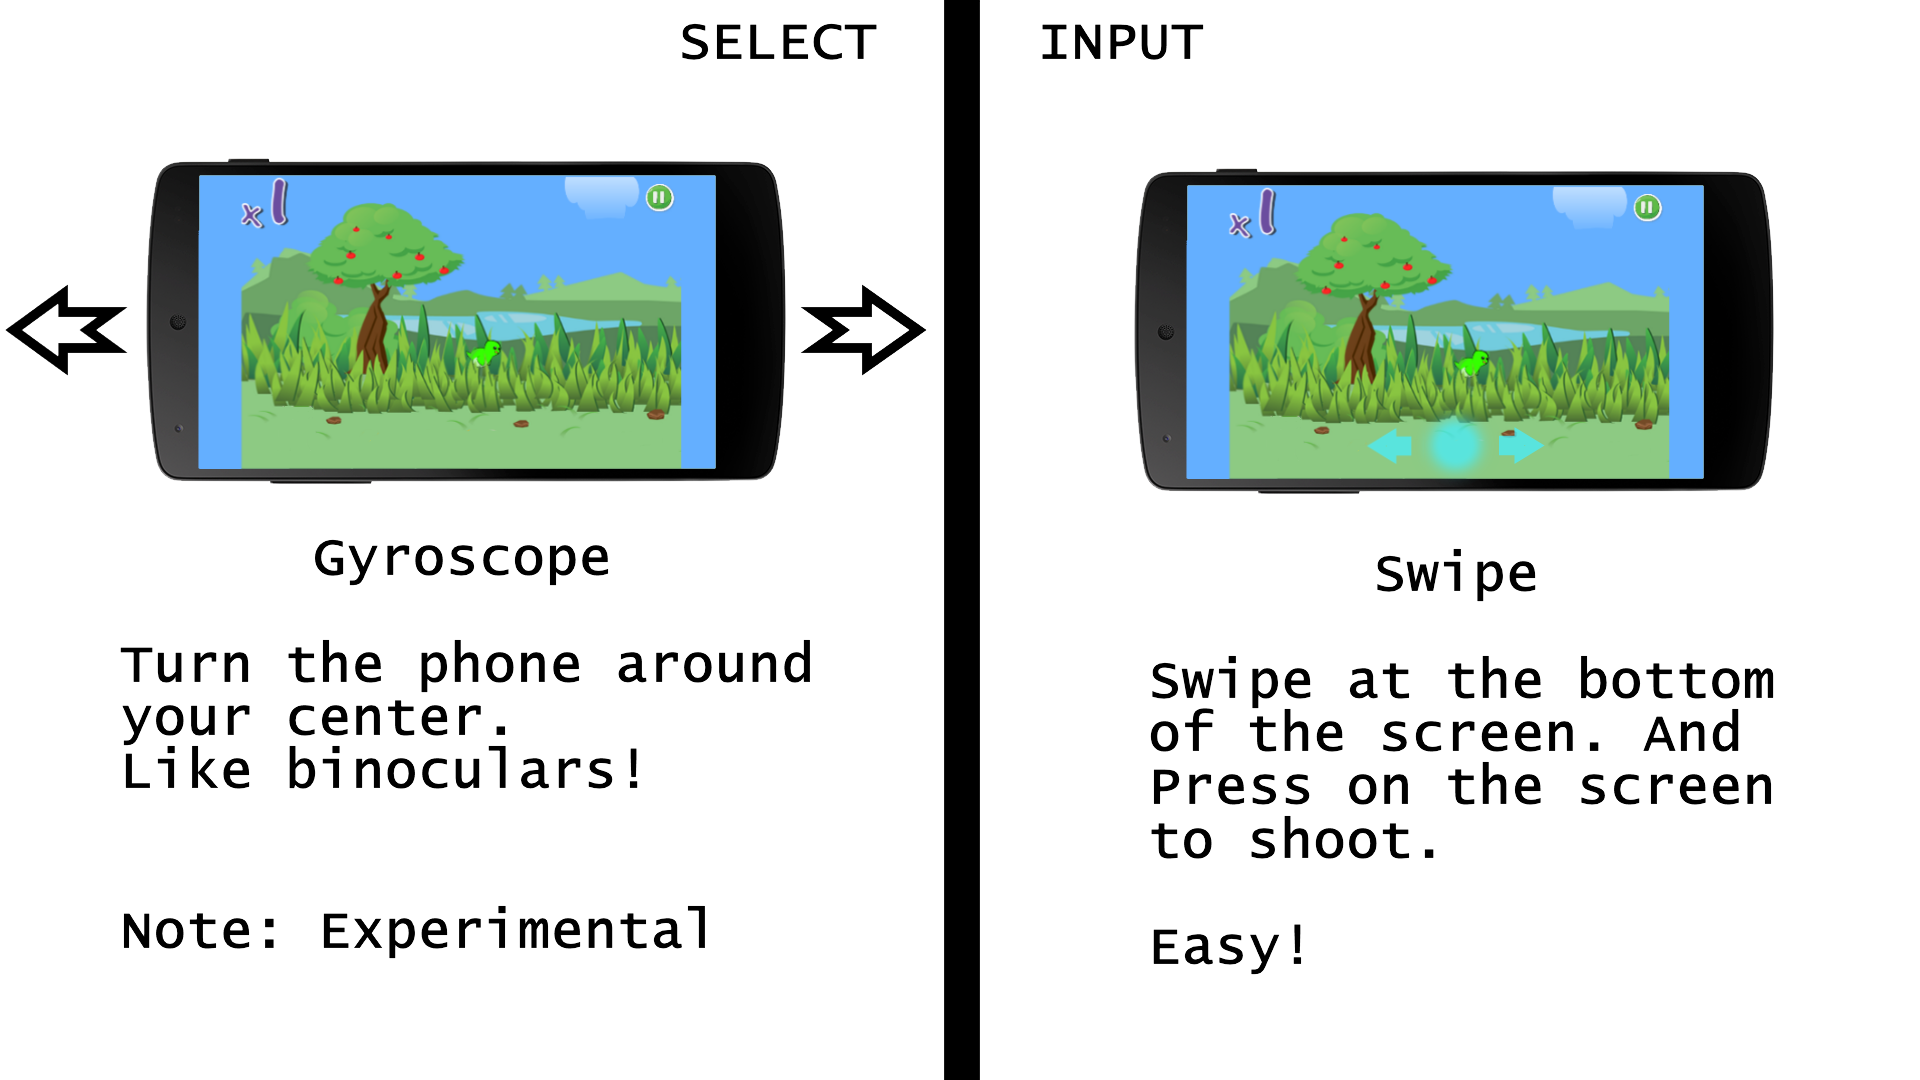
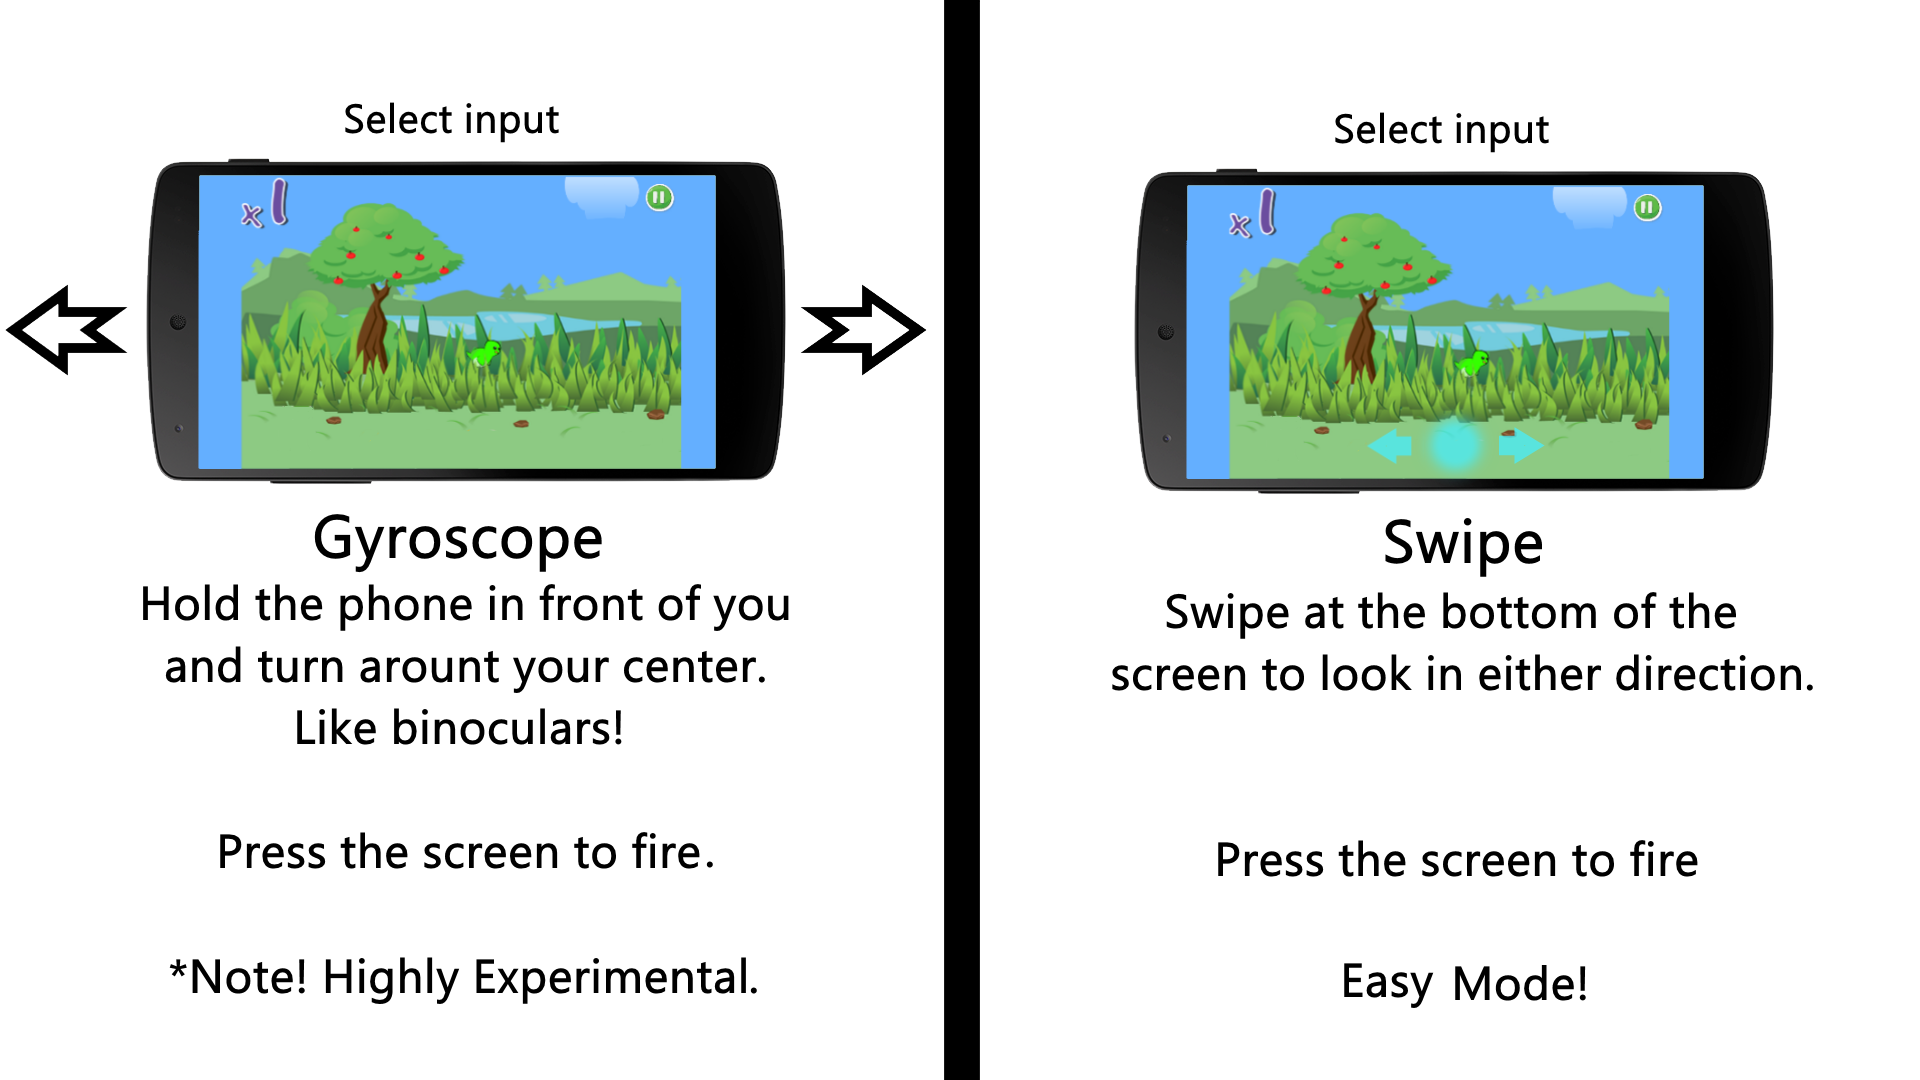
Controll selection. Yes!

diff --git a/core/src/com/rarefrog/birdhunt/screens/ControlActor.java b/core/src/com/rarefrog/birdhunt/screens/ControlActor.java
@@ -8,10 +8,10 @@ import com.badlogic.gdx.graphics.glutils.ShapeRenderer;
 import com.badlogic.gdx.scenes.scene2d.Actor;
 import com.badlogic.gdx.scenes.scene2d.InputEvent;
 import com.badlogic.gdx.scenes.scene2d.actions.Actions;
-import com.badlogic.gdx.scenes.scene2d.actions.SequenceAction;
 import com.badlogic.gdx.scenes.scene2d.utils.ClickListener;
 import com.rarefrog.birdhunt.Assets;
 import com.rarefrog.birdhunt.Game;
+import com.rarefrog.birdhunt.input.Controls;
 
 /**
  * Created by Elmar on 3/20/2015.
@@ -22,11 +22,17 @@ public class ControlActor extends Actor {
     private ShapeRenderer shapeRenderer;
     private int leftSelected = -1;
     private int rightSelected = -1;
+    private Game game;
+    private int playStyle;
+    private float timer = 0;
+    private boolean time = false;
 
 
-    public ControlActor() {
+    public ControlActor(Game game, int playStyle) {
         texture = Assets.controls;
         shapeRenderer = new ShapeRenderer();
+        this.playStyle = playStyle;
+        this.game = game;
 
         setActions();
         setWidth(Game.VIRTUAL_WIDTH);
@@ -39,14 +45,28 @@ public class ControlActor extends Actor {
             @Override
             public void clicked(InputEvent event, float x, float y) {
                 System.out.println(x + "  " + y);
-                if (Gdx.input.getX() < Gdx.graphics.getWidth() / 2) {
-                    leftSelected = 1;
-                    rightSelected = 0;
-                } else {
-                    leftSelected = 0;
-                    rightSelected = 1;
+                if (!time) {
+                    if (Gdx.input.getX() < Gdx.graphics.getWidth() / 2) {
+                        if (leftSelected == 1) {
+                            Controls.touchMovement = false;
+                            addAction(Actions.fadeOut(3));
+                            timer = 0;
+                            time = true;
+                        }
+                        leftSelected = 1;
+                        rightSelected = 0;
+                    } else {
+                        if (rightSelected == 1) {
+                            Controls.touchMovement = true;
+                            addAction(Actions.fadeOut(3));
+                            timer = 0;
+                            time = true;
+                        }
+                        leftSelected = 0;
+                        rightSelected = 1;
+                    }
+                    System.out.println("l:" + leftSelected + "r:" + rightSelected);
                 }
-                System.out.println("l:" + leftSelected + "r:" + rightSelected);
             }
         };
         addListener(clickListener);
@@ -60,22 +80,29 @@ public class ControlActor extends Actor {
         Color backGr1 = new Color(1, 1, 1, 1);
         Color backGr2 = new Color(1, 1, 1, 1);
         shapeRenderer.setProjectionMatrix(batch.getProjectionMatrix());
-
-        if (leftSelected == -1) {
-            backGr1.set(1, 1, 1, 1);
-        } else if (leftSelected == 1) {
-            backGr1.set(1, 0, 0, 1);
-        } else {
-            backGr1.set(0, 1, 0, 1);
+        if (time) {
+            timer += Gdx.graphics.getDeltaTime();
+            if (timer >= 3) {
+                game.setScreen(new GameScreen(game, playStyle));
+            }
         }
+        parentAlpha = 1f - (timer / 3f);
+        if (leftSelected == -1) {
+            backGr1.set(1, 1, 1, parentAlpha);
+        } else if (leftSelected == 0) {
+            backGr1.set(0.9059f * parentAlpha, 0.2431f * parentAlpha, 0.3921f * parentAlpha, parentAlpha);
+        } else {
+            backGr1.set(0.3725f * parentAlpha, 0.6824f *parentAlpha, 0.0745f * parentAlpha, parentAlpha);
+        }
+
         shapeRenderer.setColor(backGr1);
         shapeRenderer.rect(0, 0, Game.VIRTUAL_WIDTH / 2, Game.VIRTUAL_HEIGHT);
         if (rightSelected == -1) {
-            backGr2.set(1, 1, 1, 1);
+            backGr2.set(1, 1, 1, parentAlpha);
         } else if (rightSelected == 0) {
-            backGr2.set(1, 0, 0, 1);
+            backGr2.set(0.9059f * parentAlpha, 0.2431f * parentAlpha, 0.3921f * parentAlpha, parentAlpha);
         } else {
-            backGr2.set(0, 1, 0, 1);
+            backGr2.set(0.3725f * parentAlpha, 0.6824f *parentAlpha, 0.0745f * parentAlpha, parentAlpha);
         }
         shapeRenderer.setColor(backGr2);
         shapeRenderer.rect(Game.VIRTUAL_WIDTH / 2, 0, Game.VIRTUAL_WIDTH / 2, Game.VIRTUAL_HEIGHT);
@@ -89,7 +116,6 @@ public class ControlActor extends Actor {
 
 
     }
-
 
 
 }

diff --git a/core/src/com/rarefrog/birdhunt/screens/GameScreen.java b/core/src/com/rarefrog/birdhunt/screens/GameScreen.java
@@ -187,10 +187,12 @@ public class GameScreen extends AbstractScreen {
         switch (world.state) {
             case World.WORLD_STATE_RUNNING:
                 if (!game.dialogOpen && Gdx.input.justTouched()) {
-                    if (shots > 0) {
-                        if (Settings.soundEnabled) Assets.shoot.play();
-                        shots--;
+                    if (world.touchPoint.y > 96) { //for swiping purposes
+                        if (shots > 0) {
+                            if (Settings.soundEnabled) Assets.shoot.play();
+                            shots--;
 //                        world.bulletCasings.add(new BulletCasing());
+                        }
                     }
                 }
                 break;

diff --git a/core/src/com/rarefrog/birdhunt/screens/ControlSelect.java b/core/src/com/rarefrog/birdhunt/screens/ControlSelect.java
@@ -38,7 +38,7 @@ public class ControlSelect extends AbstractScreen {
     public void show() {
         if (batch == null) batch = new SpriteBatch();
         stage = new Stage(new FitViewport(Game.VIRTUAL_WIDTH, Game.VIRTUAL_HEIGHT), batch);
-        controlActor = new ControlActor();
+        controlActor = new ControlActor(game,gamemode);
         stage.addActor(controlActor);
         setInputProcessor();
     }
@@ -61,7 +61,7 @@ public class ControlSelect extends AbstractScreen {
         super.render(delta);
         stage.act();
 
-        Gdx.gl.glClearColor(1, 1f, 1, 1);
+        Gdx.gl.glClearColor(0, 0f, 0, 1);
         Gdx.gl.glClear(GL20.GL_COLOR_BUFFER_BIT);
 
         stage.draw();

diff --git a/desktop/src/com/rarefrog/birdhunt/desktop/DesktopLauncher.java b/desktop/src/com/rarefrog/birdhunt/desktop/DesktopLauncher.java
@@ -13,8 +13,8 @@ public class DesktopLauncher implements InputInterface {
 
     public static void main(String[] arg) {
         LwjglApplicationConfiguration config = new LwjglApplicationConfiguration();
-        config.width = (int) Game.VIRTUAL_WIDTH;
-        config.height = (int) Game.VIRTUAL_HEIGHT;
+        config.width = (int) Game.VIRTUAL_WIDTH*3;
+        config.height = (int) Game.VIRTUAL_HEIGHT*2;
         new LwjglApplication(new Game(new ActionResolverDesktop(), new IDesktopRequestHandler(), new DesktopLauncher()), config);
     }
 

diff --git a/core/src/com/rarefrog/birdhunt/World.java b/core/src/com/rarefrog/birdhunt/World.java
@@ -49,7 +49,7 @@ public class World {
     public boolean checkDucksRoundPause;
     public boolean perfect;
 
-    Vector2 touchPoint;
+    public Vector2 touchPoint;
 
     private Level level;
 
